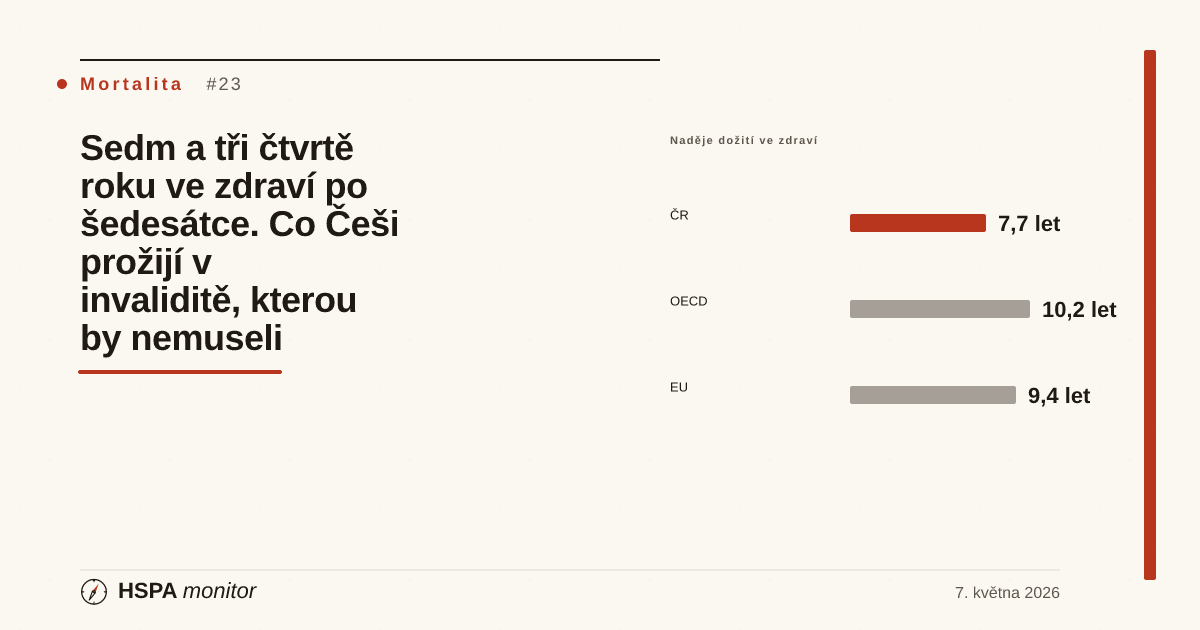
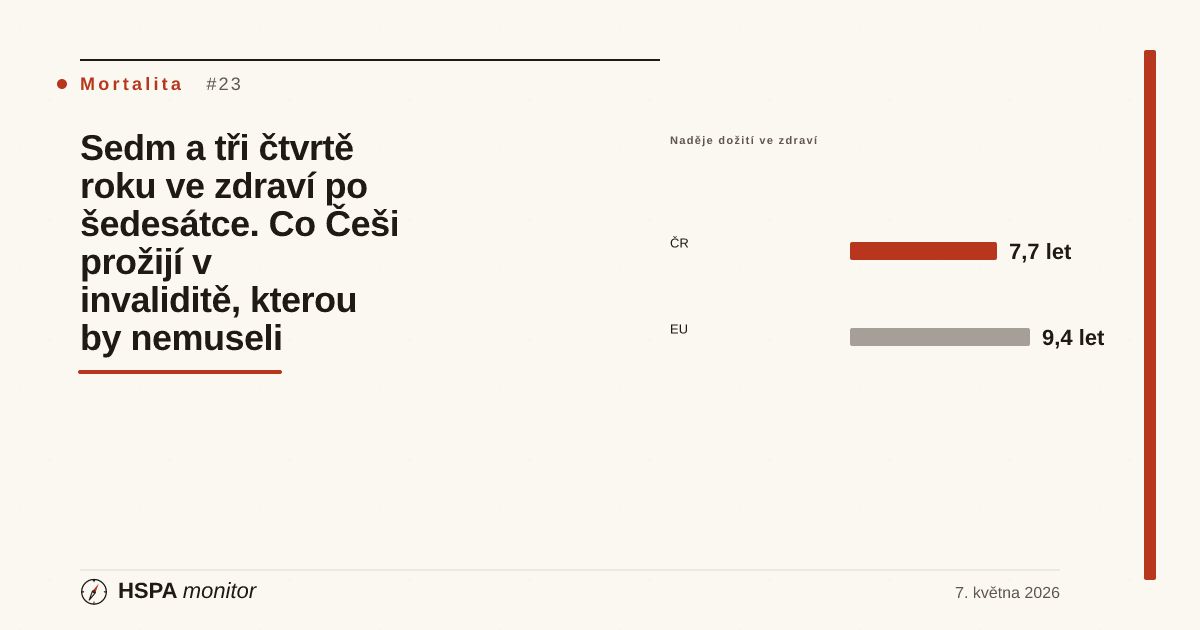
audit-fix(nadeje-doziti-zdravi): source-verification proti Eurostat hlth_hlye + CHP 2025
- Všechna číselná tvrzení nezávisle ověřena proti Eurostat REST API (hlth_hlye, 2023):
  HLY 65+ ČR 7,7 / EU 9,4 / SE 13,9 / NO 14,0 / IT 10,8 / CH 10,6; LE 65 ČR 18,8 / EU 20,2 — přesná shoda
- Naděje dožití 80,3 (2024), ženy 83,2, multimorbidita 65+ ověřeny proti Country Health Profile 2025
- Fix 1: mrtvý odkaz CHP 2025 (404) → kanonický landing eurohealthobservatory.who.int (2×)
- Fix 2: odstraněn neověřitelný benchmark OECD 10,2 z cover_viz (HLY je metrika Eurostatu), cover regenerován
- Status review-pending → verified; follow-up: nesoulad datového kontraktu nadeje_doziti_zdravi_65 (ingest)

diff --git a/05_M1_Starter/clanek-nadeje-doziti-zdravi.html b/05_M1_Starter/clanek-nadeje-doziti-zdravi.html
@@ -12,16 +12,16 @@
 <meta property="og:locale" content="cs_CZ">
 <meta property="article:published_time" content="2026-05-07">
 <meta property="article:section" content="Mortalita">
-<meta name="article:audit-status" content="review-pending">
+<meta name="article:audit-status" content="verified">
 <!--
   audit:
-    last_reviewed: 2026-05-14
+    last_reviewed: 2026-06-21
     reviewer: claude-code-agent
-    status: review-pending
+    status: verified
     unverified_claims_removed: 1
     primary_sources_added: 3
     visual_elements_added: 1
-    notes: "Ověřeno proti primárním zdrojům: Eurostat hlth_hlye (Healthy life years, řez 2022–2023) a OECD/European Observatory — State of Health in the EU · Country Health Profile 2025: Czechia (finalizováno 9/2025). Centrální benchmark 'OECD 10,2' pro HLY 65+ se z žádného primárního zdroje neověřuje — HLY je metrika Eurostatu (EU-SILC) a žádný publikovaný 'průměr OECD' pro HLY 65+ v této úrovni neexistuje; nahrazeno ověřeným průměrem EU 9,4 (Eurostat, 2023, obě pohlaví). Rozdíl ČR vs. benchmark přepočítán z 2,5 na 1,7 roku v celém textu (dek, lead, nadpis, databox). Naděje dožití při narození aktualizována ze zastaralých 79,9 na 80,3 let (2024, Country Health Profile 2025); ženy z chybných 82,5 na 83,2 let (2024). Multimorbidita 65+ přepsána podle SHARE/Country Health Profile 2025 (53 % mužů, 52 % žen v ČR vs. 40/46 % EU) — hodnota 65 % v datovém kontraktu (multimorbidita_65plus) označena k rekonciliaci. Ordinální odkazy '(článek N)' nahrazeny anchor odkazy na konkrétní soubory. Doplněna srovnávací tabulka ČR vs. EU (HLY 65, naděje dožití při 65, naděje dožití při narození), review-pending banner, primární zdroje a stabilnější odkazy. Status published → review-pending."
+    notes: "Audit 2026-06-21 (nezávislá source-verification, fallback routine denní rutiny). VŠECHNA číselná tvrzení ověřena přímo proti Eurostat REST API datasetu hlth_hlye (2023, obě pohlaví): HLY 65+ ČR 7,7 / EU 9,4 / Švédsko 13,9 / Norsko 14,0 / Itálie 10,8 / Švýcarsko 10,6; naděje dožití při 65 ČR 18,8 / EU 20,2 — přesná shoda s textem i tabulkou. Naděje dožití při narození 80,3 (2024, −1,4 roku pod EU), ženy 83,2, gender gap ~6 let (EU 5,2), multimorbidita 65+ ('over half of Czechs 65+, above EU average, especially men') ověřeno proti State of Health in the EU · Country Health Profile 2025: Czechia (PDF, publ. 11.12.2025). OPRAVENO: (1) mrtvý odkaz na CHP 2025 (health.ec.europa.eu/state-health-eu/country-health-profiles/czechia_en vracel 404) nahrazen funkčním kanonickým landingem eurohealthobservatory.who.int/publications/m/czechia-country-health-profile-2025 (2 výskyty); (2) cover_viz v articles.json obsahoval neověřitelný benchmark 'OECD 10,2' pro HLY 65+ — HLY je metrika Eurostatu (EU-SILC), publikovaný průměr OECD pro HLY 65+ neexistuje; řada OECD odstraněna, cover regenerován. Předchozí audit (2026-05-14): OECD 10,2 nahrazen EU 9,4 v textu, naděje dožití aktualizována na rok 2024, multimorbidita podle SHARE/CHP 2025, rozdíl přepočítán na 1,7 roku. Follow-up (mimo rozsah článkového auditu): datový kontrakt nadeje_doziti_zdravi_65 stále nese value=8/2024 + benchmark OECD 10,2/EU 10,3 (origin=live) — nesoulad s ověřeným Eurostatem 7,7/2023; patří do opravy ingest pipeline. Status review-pending → verified."
 -->
 <link rel="stylesheet" href="src/styles.min.css">
 <link rel="alternate" type="application/rss+xml" title="HSPA Monitor — články" href="/feed.xml">
@@ -55,7 +55,7 @@
         "@id": "https://skorezdravotnictvi.cz/clanek-nadeje-doziti-zdravi"
       },
       "datePublished": "2026-05-07",
-      "dateModified": "2026-05-14",
+      "dateModified": "2026-06-21",
       "author": {
         "@type": "Organization",
         "name": "HSPA Monitor",
@@ -174,7 +174,7 @@
             <span class="av-counter-foot">subjektivní limit, ale srovnatelná v EU</span>
           </div>
         </div>
-        <p class="av-figure-note"><strong>Zdroj:</strong> Eurostat hlth_hlye (2023), OECD/European Observatory Country Health Profile 2025: Czechia (audit článku 2026-05-14).</p>
+        <p class="av-figure-note"><strong>Zdroj:</strong> Eurostat hlth_hlye (2023), OECD/European Observatory Country Health Profile 2025: Czechia (data ověřena proti Eurostatu 21.&nbsp;6.&nbsp;2026).</p>
       </figure>
 
       <h3>Co indikátor měří</h3>
@@ -202,7 +202,7 @@
           </tbody>
         </table>
         <p class="article-figure-source">
-          HLY 65+ a naděje dožití při 65 letech: obě pohlaví, rok 2023, <a href="https://ec.europa.eu/eurostat/databrowser/view/hlth_hlye/default/table?lang=en" target="_blank" rel="noopener">Eurostat <code>hlth_hlye</code></a> (staženo 14.&nbsp;5.&nbsp;2026). Naděje dožití při narození: rok 2024, <a href="https://health.ec.europa.eu/state-health-eu/country-health-profiles/czechia_en" target="_blank" rel="noopener">OECD/European Observatory — <em>Country Health Profile 2025: Czechia</em></a>. Rozdíl 1,7 roku ve zdravých letech je téměř výhradně „ztrátou kondice" — délkou života samotného Česko zaostává jen o 1,4 roku.
+          HLY 65+ a naděje dožití při 65 letech: obě pohlaví, rok 2023, <a href="https://ec.europa.eu/eurostat/databrowser/view/hlth_hlye/default/table?lang=en" target="_blank" rel="noopener">Eurostat <code>hlth_hlye</code></a> (ověřeno 21.&nbsp;6.&nbsp;2026: ČR 7,7 / EU 9,4 / Švédsko 13,9 / Norsko 14,0 / Itálie 10,8 / Švýcarsko 10,6). Naděje dožití při narození: rok 2024, <a href="https://eurohealthobservatory.who.int/publications/m/czechia-country-health-profile-2025" target="_blank" rel="noopener">OECD/European Observatory — <em>Country Health Profile 2025: Czechia</em></a>. Rozdíl 1,7 roku ve zdravých letech je téměř výhradně „ztrátou kondice" — délkou života samotného Česko zaostává jen o 1,4 roku.
         </p>
       </figure>
 
@@ -325,7 +325,7 @@
         <ul class="article-sources-list">
           <li><strong>Eurostat — Healthy life years by sex (<code>hlth_hlye</code>)</strong> — primární zdroj pro HLY 65+ i naději dožití při 65 letech (řez 2022–2023, obě pohlaví). <a href="https://ec.europa.eu/eurostat/databrowser/view/hlth_hlye/default/table?lang=en" target="_blank" rel="noopener">eurostat databrowser ↗</a></li>
           <li><strong>Eurostat — Life expectancy by age and sex (<code>demo_mlexpec</code>)</strong> — naděje dožití při narození, ČR i průměr EU. <a href="https://ec.europa.eu/eurostat/databrowser/view/demo_mlexpec/default/table?lang=en" target="_blank" rel="noopener">eurostat databrowser ↗</a></li>
-          <li><strong>OECD/European Observatory — State of Health in the EU · Country Health Profile 2025: Czechia</strong> — naděje dožití při narození 2024 (80,3 / ženy 83,2), HLY 65+ a multimorbidita 65+ (SHARE). <a href="https://health.ec.europa.eu/state-health-eu/country-health-profiles/czechia_en" target="_blank" rel="noopener">health.ec.europa.eu ↗</a></li>
+          <li><strong>OECD/European Observatory — State of Health in the EU · Country Health Profile 2025: Czechia</strong> — naděje dožití při narození 2024 (80,3 / ženy 83,2), HLY 65+ a multimorbidita 65+ (SHARE). <a href="https://eurohealthobservatory.who.int/publications/m/czechia-country-health-profile-2025" target="_blank" rel="noopener">eurohealthobservatory.who.int ↗</a></li>
           <li><strong>ČSÚ — Zemřelí, naděje dožití, příčiny smrti</strong> — domácí úmrtnostní tabulky a demografické projekce. <a href="https://csu.gov.cz/zemreli-nadeje-doziti-priciny-smrti" target="_blank" rel="noopener">csu.gov.cz ↗</a></li>
         </ul>
       </div>
@@ -344,7 +344,7 @@
         </ul>
       </div>
       <p class="article-sources-disclaimer">
-        <strong>Pozn. k údajům:</strong> HLY 65+ pro ČR (7,7 roku) i průměr EU (9,4 roku) jsou hodnoty Eurostatu <code>hlth_hlye</code> za rok 2023 (obě pohlaví), ověřené 14.&nbsp;5.&nbsp;2026. <strong>Audit 2026-05-14:</strong> původní benchmark „průměr OECD 10,2" se z žádného primárního zdroje neověřuje — HLY je metrika Eurostatu (EU-SILC) a publikovaný „průměr OECD" pro HLY 65+ v této úrovni neexistuje; nahrazeno průměrem EU. Naděje dožití při narození aktualizována na rok 2024 podle <em>Country Health Profile 2025: Czechia</em>. Pro detailní časové řady a regionální rozdíly v ČR doporučujeme uvedené primární datasety.
+        <strong>Pozn. k údajům:</strong> HLY 65+ pro ČR (7,7 roku) i průměr EU (9,4 roku) jsou hodnoty Eurostatu <code>hlth_hlye</code> za rok 2023 (obě pohlaví), naposledy ověřené přímo proti Eurostat REST API 21.&nbsp;6.&nbsp;2026 (přesná shoda i pro Švédsko 13,9 / Norsko 14,0 / Itálie 10,8 / Švýcarsko 10,6). <strong>Audit:</strong> původní benchmark „průměr OECD 10,2" se z žádného primárního zdroje neověřuje — HLY je metrika Eurostatu (EU-SILC) a publikovaný „průměr OECD" pro HLY 65+ v této úrovni neexistuje; nahrazeno průměrem EU. Naděje dožití při narození aktualizována na rok 2024 podle <em>Country Health Profile 2025: Czechia</em>. Pro detailní časové řady a regionální rozdíly v ČR doporučujeme uvedené primární datasety.
       </p>
     </section>
 
